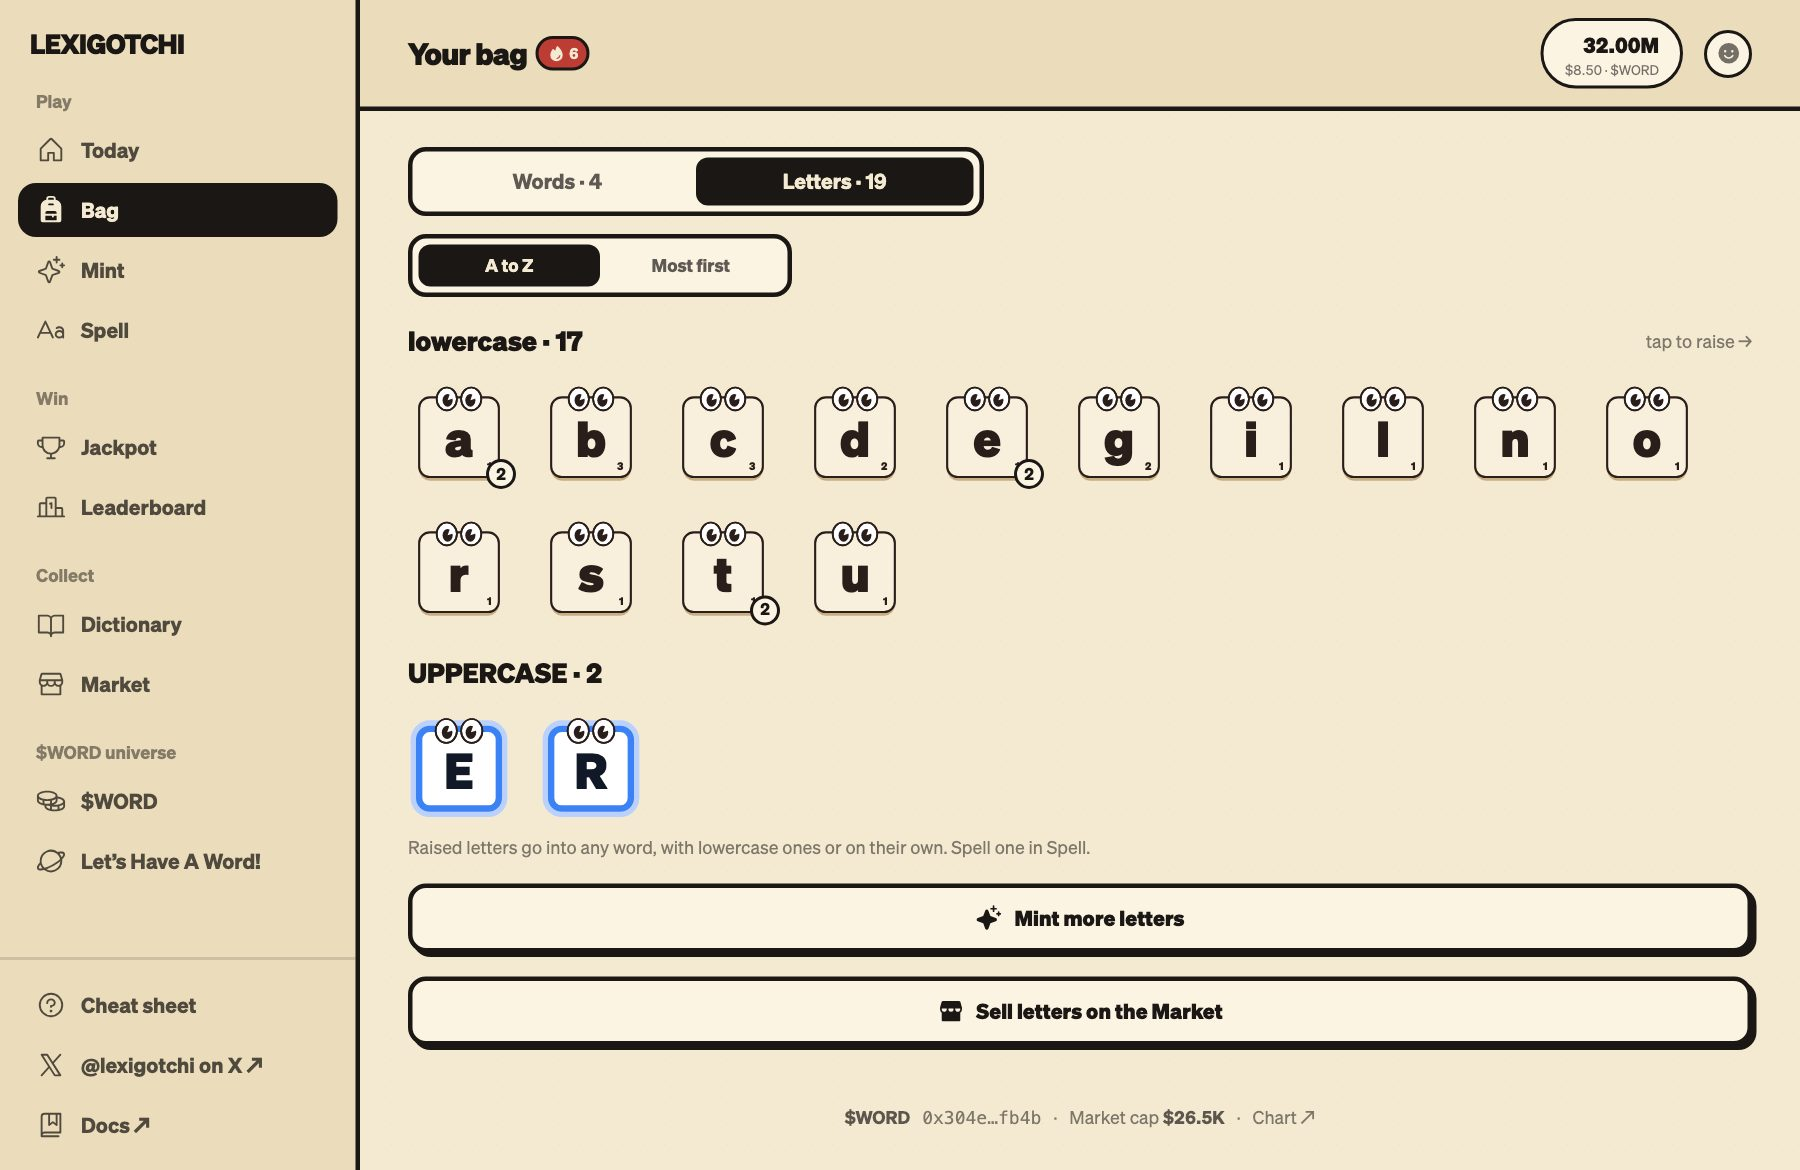
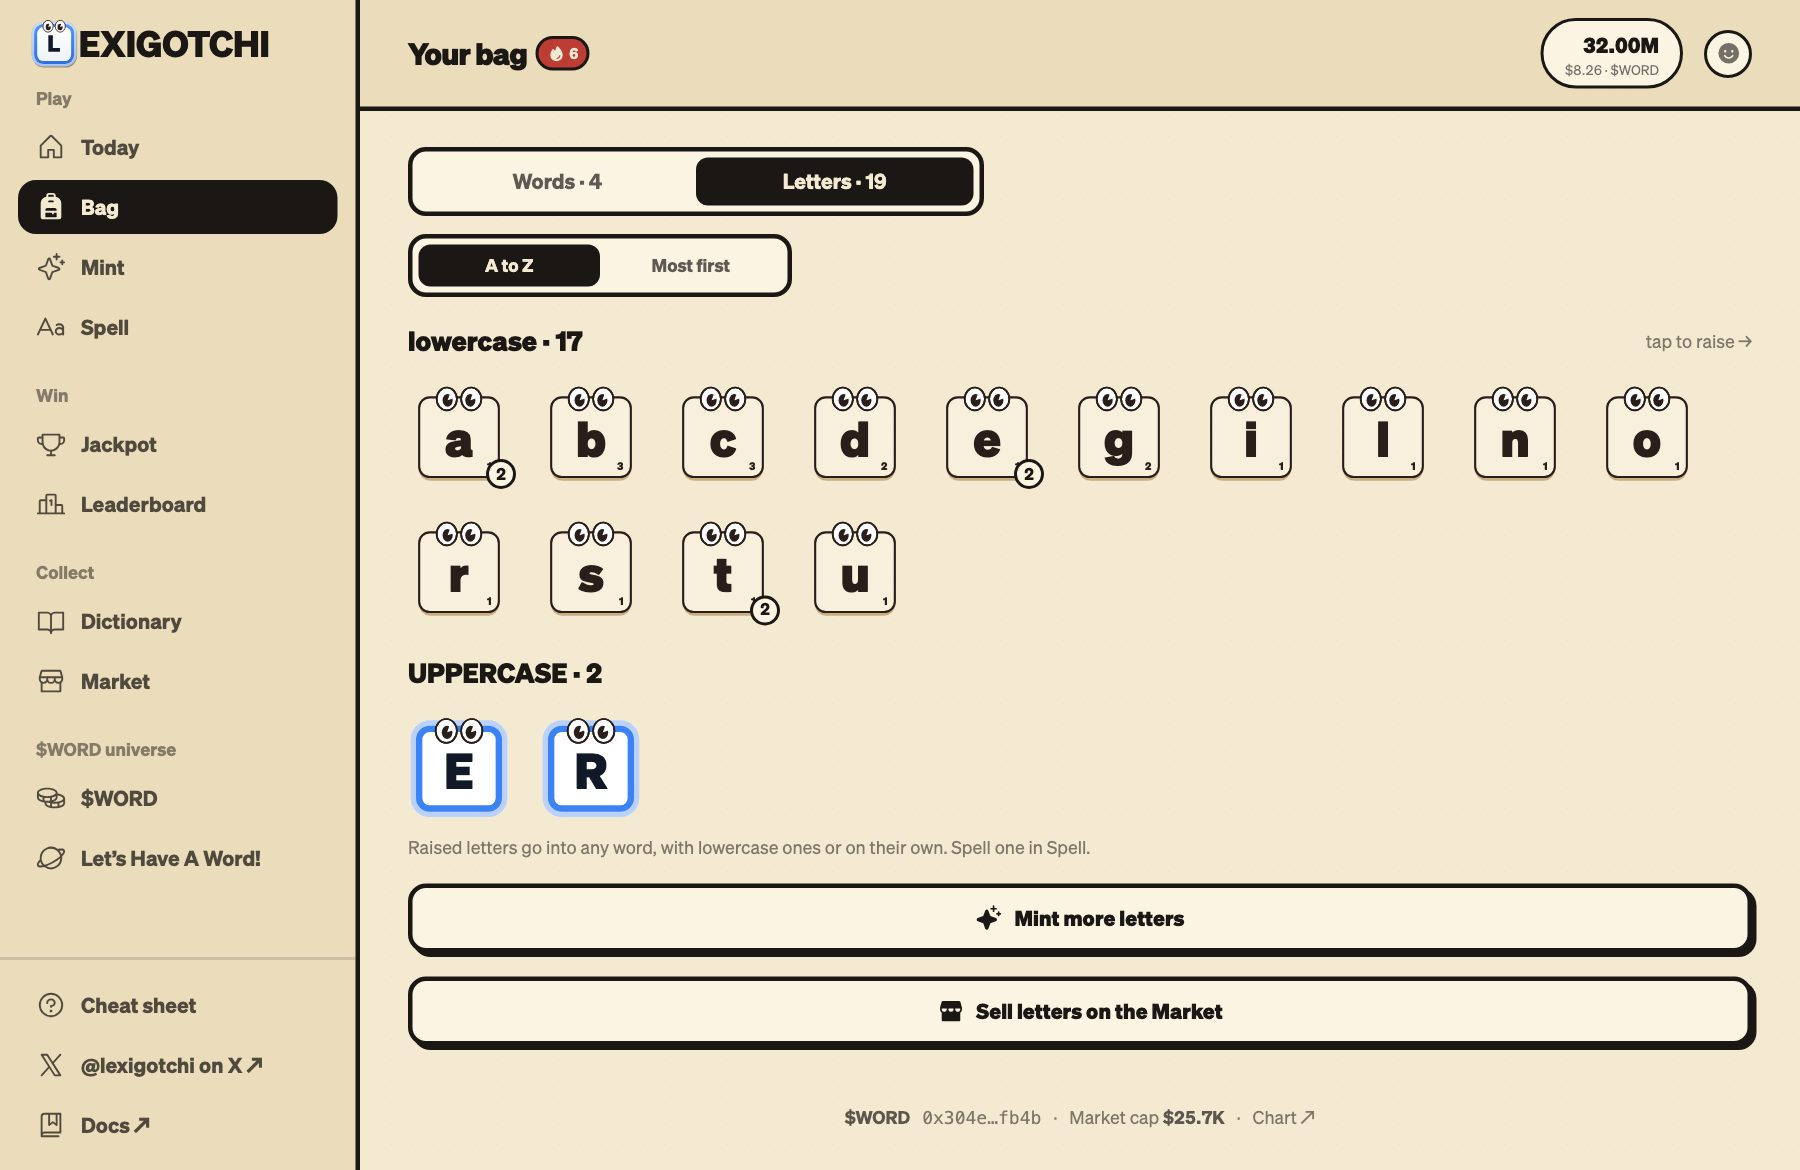
The lockup gives way on narrow phones, stands still behind the intro, and the docs pictures show it
- The landing header's lockup shrinks on a narrow phone: at full size it touched
  the Play button on a 320 px screen.
- The game's own lockup is still while the intro is up: one living mark at a time.
- docs/brand notes: two rules that were never the owner's are removed.
- Docs screenshots retaken: the rail shows the lockup.

diff --git a/src/components/game/GameApp.tsx b/src/components/game/GameApp.tsx
@@ -170,14 +170,14 @@ function Frame({ onboarded, onFinishOnboarding }: { onboarded: boolean; onFinish
       {/* The outer box is the overlay host: fixed to the viewport, so the sheets, onboarding and
           toasts below (absolute inset-0) cover the whole window on desktop, rail included. */}
       <div className="fixed inset-0 z-50 flex bg-paper">
-        <SideRail />
+        <SideRail still={!onboarded} />
         <div className="relative flex h-full min-w-0 flex-1 flex-col overflow-hidden">
           {/* faint aged-paper grain */}
           <div
             className="pointer-events-none absolute inset-0 opacity-60"
             style={{ backgroundImage: "radial-gradient(#e7d7b0 0.5px, transparent 0.5px)", backgroundSize: "14px 14px" }}
           />
-          <TopBar />
+          <TopBar still={!onboarded} />
           <main ref={mainRef} className="relative flex-1 overflow-y-auto px-4 pb-28 pt-3 md:px-8 md:pb-12 md:pt-6">
             {/* Phones: the full width (as before). Desktop: a readable column the screens fill
                 with their own grids. Tablets in portrait get a centered phone-width column. */}
@@ -377,7 +377,8 @@ function SheetFor({ sheet }: { sheet: Sheet }) {
 // Top bar — brand + balance + streak + day control
 // ---------------------------------------------------------------------------
 
-function TopBar() {
+/** `still`: the intro is up, and its own lockup is the living one (one living mark at a time). */
+function TopBar({ still }: { still: boolean }) {
   const { state, skipDay, openSheet } = useGame();
   const helpBtn = (
     <button
@@ -399,7 +400,7 @@ function TopBar() {
             off the screen (at full size the profile button left a 390 px screen). Only the lockup
             gives way: letting this whole group shrink slid the chip beside it under the balance. */}
         <span className="min-w-[91px] shrink md:hidden">
-          <Lockup alive height={28} className="h-auto w-full" />
+          <Lockup alive={!still} height={28} className="h-auto w-full" />
         </span>
         {/* Desktop: the rail shows the brand, so the header names the page instead. */}
         <h1 className="hidden font-display text-xl font-extrabold tracking-tight md:block">{VIEW_TITLE[state.view]}</h1>
@@ -550,7 +551,7 @@ const RAIL: { heading: string; items: { view: View; label: string; Icon: typeof 
   },
 ];
 
-function SideRail() {
+function SideRail({ still }: { still: boolean }) {
   const { state, nav, openSheet } = useGame();
   const openUrl = useOpenUrl();
   const item = (view: View, label: string, Icon: typeof House) => {
@@ -573,7 +574,7 @@ function SideRail() {
     <aside className="relative z-10 hidden h-full w-56 shrink-0 flex-col border-r-[3px] border-ink bg-paper-dark/70 md:flex lg:w-60">
       {/* the brand goes home to the landing page */}
       <a href="/" className="flex items-center px-5 pb-3 pt-3">
-        <Lockup alive height={34} />
+        <Lockup alive={!still} height={34} />
       </a>
       <nav className="flex-1 space-y-5 overflow-y-auto px-3 pb-4" aria-label="Game">
         {RAIL.map((group) => (

diff --git a/tests/lockup.test.tsx b/tests/lockup.test.tsx
@@ -166,16 +166,21 @@ describe("the lockup, drawn live", () => {
 describe("where the name is drawn", () => {
   it("the six live places draw the lockup, alive in five and still in the landing page's footer", () => {
     const app = read("src/components/game/GameApp.tsx");
-    expect(app.match(/<Lockup alive height=\{\d+\}[^>]*\/>/g)).toHaveLength(2); // the rail, and the phone's header
+    // the rail, and the phone's header: alive, but still while the intro is up (its lockup is the living one)
+    expect(app.match(/<Lockup alive=\{!still\} height=\{\d+\}[^>]*\/>/g)).toHaveLength(2);
+    expect(app).toContain("<SideRail still={!onboarded} />");
+    expect(app).toContain("<TopBar still={!onboarded} />");
     // The phone header's lockup gives way when the row is tight, down to the old plain name's width:
     // at its full 132 px it pushed the profile button off a 390 px screen.
-    expect(app).toMatch(/<span className="min-w-\[91px\] shrink md:hidden">\s*<Lockup alive height=\{28\} className="h-auto w-full" \/>/);
+    expect(app).toMatch(/<span className="min-w-\[91px\] shrink md:hidden">\s*<Lockup alive=\{!still\} height=\{28\} className="h-auto w-full" \/>/);
     // and only the lockup gives way: when its whole group could shrink, the chip beside it slid under the balance
     expect(app).not.toMatch(/<div className="flex min-w-0 items-center gap-1\.5">\s*\{\/\* The lockup/);
     expect(read("src/components/game/Onboarding.tsx")).toMatch(/<Lockup alive height=\{\d+\} \/>/);
     expect(read("src/components/game/screens/PreLaunchScreen.tsx")).toMatch(/<Lockup alive height=\{\d+\} \/>/);
     const landing = read("src/components/landing/LandingPage.tsx");
-    expect(landing).toContain("<Lockup alive={!small} height={small ? 30 : 38} />");
+    expect(landing).toContain('<Lockup alive={!small} height={small ? 30 : 38} className={small ? "" : "h-auto w-full"} />');
+    // the header's lockup gives way too: at full size it touched the Play button on a 320 px screen
+    expect(landing).toMatch(/justify-between gap-4 [^"]*">\s*<Link href="\/" className="min-w-0 shrink">\s*<Wordmark \/>/);
     expect(landing).toContain("<Wordmark small />"); // the footer's
     // and none of them still sets the name in plain type
     for (const f of ["src/components/game/GameApp.tsx", "src/components/game/Onboarding.tsx", "src/components/game/screens/PreLaunchScreen.tsx", "src/components/landing/LandingPage.tsx"]) expect(read(f), f).not.toMatch(/>\s*L?EXIGOTCHI\s*</);

diff --git a/src/components/landing/LandingPage.tsx b/src/components/landing/LandingPage.tsx
@@ -96,8 +96,9 @@ function PlayButton({
 function Wordmark({ small = false }: { small?: boolean }) {
   // The lockup (components/brand/Lockup): the tile IS the name's first letter, because a separate
   // tile beside the full name read as two things. The header's is alive; the footer's is still
-  // (one living mark a screen).
-  return <Lockup alive={!small} height={small ? 30 : 38} />;
+  // (one living mark a screen). The header's gives way on a narrow phone (its link may shrink): at
+  // its full 179 px it touched the Play button on a 320 px screen.
+  return <Lockup alive={!small} height={small ? 30 : 38} className={small ? "" : "h-auto w-full"} />;
 }
 
 function SectionHead({ kicker, title, children }: { kicker: string; title: string; children?: ReactNode }) {
@@ -263,11 +264,11 @@ export function LandingPage({ xOn = false, emailOn = false }: { xOn?: boolean; e
   return (
     <div className="overflow-x-clip">
       {/* Header */}
-      <header className="mx-auto flex max-w-6xl items-center justify-between px-5 py-5 sm:px-8">
-        <Link href="/">
+      <header className="mx-auto flex max-w-6xl items-center justify-between gap-4 px-5 py-5 sm:px-8">
+        <Link href="/" className="min-w-0 shrink">
           <Wordmark />
         </Link>
-        <nav className="flex items-center gap-6 text-sm font-bold">
+        <nav className="flex shrink-0 items-center gap-6 text-sm font-bold">
           <a href="#how-it-works" className="hidden hover:text-candy md:inline">
             How it works
           </a>

diff --git a/CLAUDE.md b/CLAUDE.md
@@ -957,8 +957,8 @@ for the mini app; sim/economy core is **zero-runtime-dependency TS** (runs via `
 - **The lockup** (decisions.md #55; `lib/cardArt/logo` `lockup`, `components/brand/Lockup.tsx`): A's
   tile standing where the name's L would, then EXIGOTCHI, as outlines (no font). **No seal in a
   lockup** (starl3xx, 2026-11-27). It is ALIVE where it is drawn live (the rail, the phone header,
-  the intro, pre-launch, the landing header; the landing footer is still: one living mark a
-  screen): the eyes blink and glance in MOMENTS from one timer (a class on the drawing for a moment,
+  the intro, pre-launch, the landing header; the landing footer is still, and so is the game's own
+  while the intro is up: one living mark at a time): the eyes blink and glance in MOMENTS from one timer (a class on the drawing for a moment,
   `.lk` in globals.css), never a loop inside the drawing, and never for a lockup nobody sees, under
   reduced motion, or on a low-power device. A blink is the letters' own swap of two drawings.
   **Each drawing on a page has its own ids** (`prefix`): the rail's and the header's are both in the

diff --git a/docs/decisions.md b/docs/decisions.md
@@ -2848,7 +2848,8 @@ setter. All small, riding existing suite patterns.
       in WebKit on a still screen: about one point of a core (0.6 to 0.8% without it, 1.4 to 2.7%
       with it).
     - **Where.** The game's rail and its phone header, the intro, the pre-launch screen, and the
-      landing page's header, alive; the landing page's footer, still (one living mark a screen).
+      landing page's header, alive; the landing page's footer, still (one living mark on a page that
+      shows two). While the intro is up, the game's own lockup behind it is still.
       They set the name in plain type before, or (the landing page) a tile with no eyes beside
       live type in the heavier Extrafett; the name is Fett now, as the L in the mark is.
     - **The phone header's lockup gives way.** At its full 28 px it is 132 px wide, 41 more than

diff --git a/docs/brand/README.md b/docs/brand/README.md
@@ -47,7 +47,6 @@ shows nothing on a white page.
 
 - **The eyes never invert.** On any ground an eye is a light eyeball with a dark pupil. That is why
   one ink has two files: never recolour one to make the other.
-- **Clear space:** half the tile's height on every side. **Smallest:** 20 px tall on a screen.
 - **Alive only where it is drawn live.** In the game and on the landing page the eyes blink and
   glance (`src/components/brand/Lockup.tsx`). These files are still.
 - Where a mark must be square (an app icon, a tab, a profile picture), use A, not the lockup.
